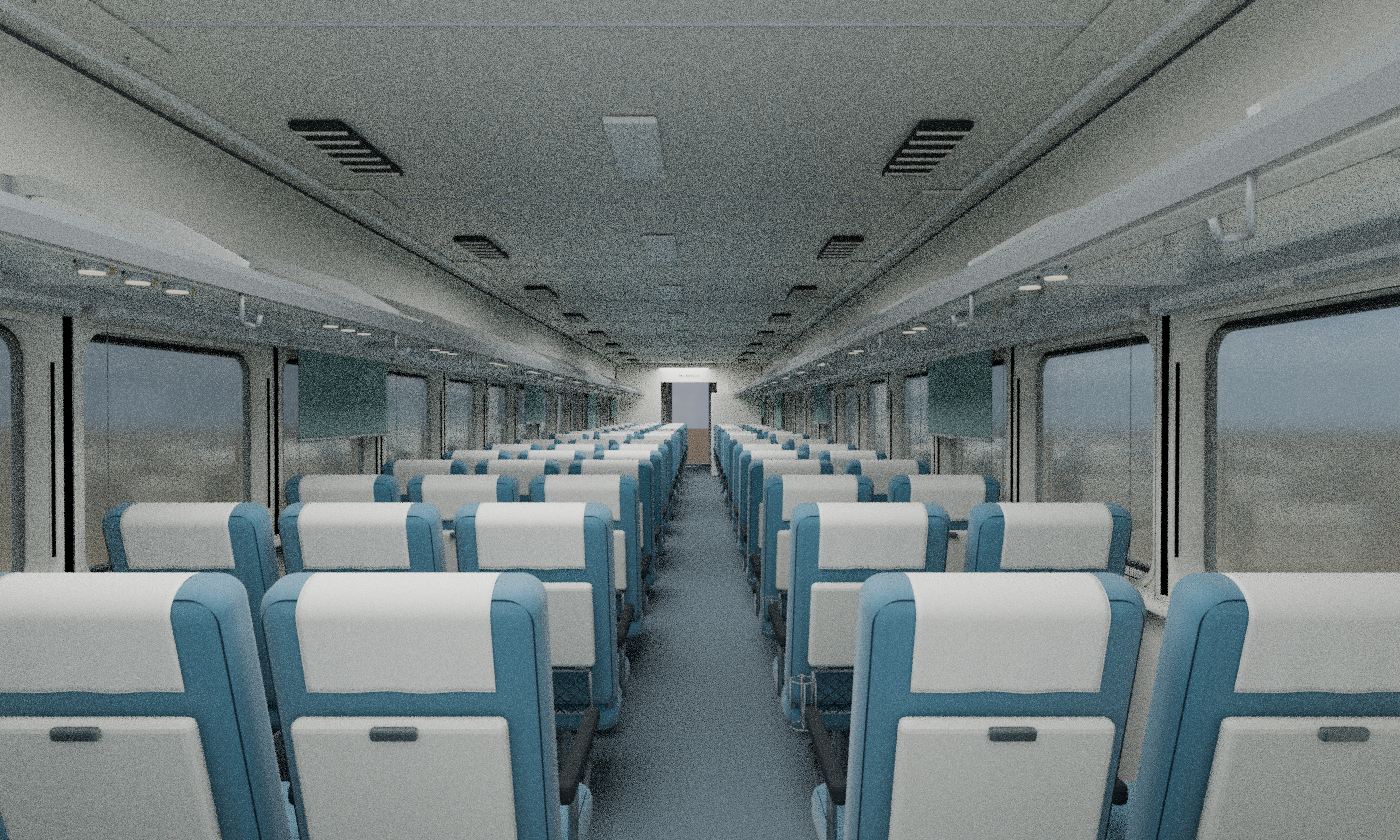
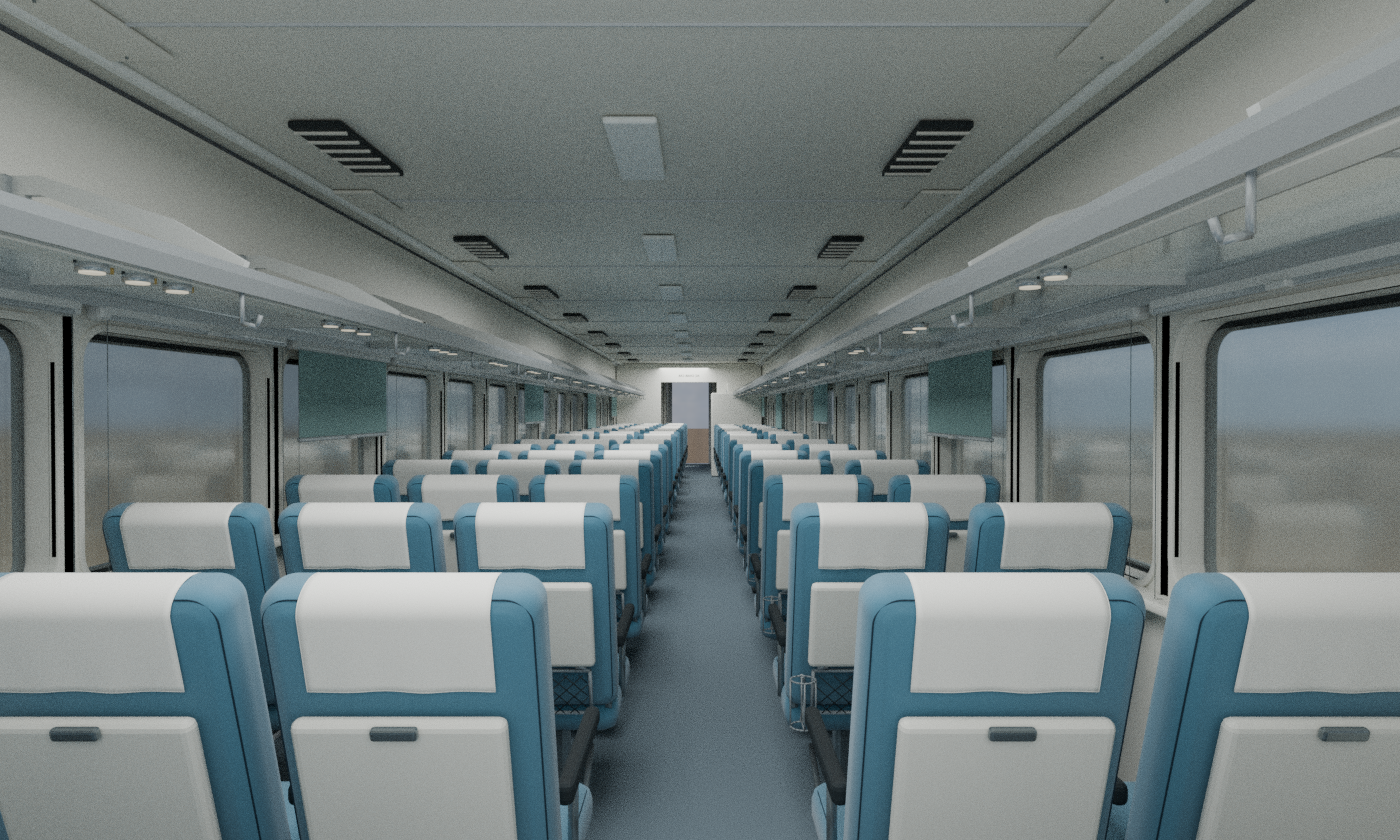
Preserve WIP coach detail source milestone: lhb_checkpoint_006

diff --git a/lhb_detail_v02/docs/iteration_log.md b/lhb_detail_v02/docs/iteration_log.md
@@ -24,3 +24,21 @@ Visual review remains open. The next pass will extend the grey end paint wedge a
 ## Recovered reference and attachment pass, 7 October 2026, 19:50 UTC
 
 Integrated the CAMTECH-informed RMPU, CC furniture and soft cabin work across all seven sources/exports. A fixture audit caught floating 1A step/stile and wall fittings, plus unmounted CC bottle cages; corrected their actual geometry rather than concealing gaps in the camera. Added 1A attachment measurements and corresponding fault injections. GS's deeper crowned cushion retains its 1.840 m top; corrected the independent centre datum to 1.776 m for its 128 mm thickness. All eight current module hashes agree across all seven manifests. Current source and FBX checks pass with the existing explicitly reported font-tessellation warnings. New close proofs and final-resolution rendering remain active work.
+
+## Current-source final 1A interior, 7 October 2026 22:43 UTC
+
+Completed and inspected actual 1400×840 CPU Cycles pixels, using eight independently seeded uniform64-sample scene-linear EXRs (512 total), no denoising, one final AgX display transform. The patched LIGHT / SOCKET legend is now correctly facing into the cabin. Burgundy cushions/piping, curtain gathering/ties, wall nets, reading lamps and bottle holders remain visible with no newly observed attachment or collision defect in this view. Fine no-denoise grain remains; this single camera does not establish complete geometric or runtime correctness. Source hash12dfa0eb remains unchanged. Source/image/sampling/dependency identities are in qa/render_1A_interior.json. Completed duration1368.4seconds.
+
+Recovery renderer identity now includes relocated helper files and actually loaded external texture content. The initial old-filter cache was preserved and excluded from final delivery. Evidence JSON is frozen byte-exact rather than rewriting execution paths inside its hashed fingerprint specification. The optional depot dependency-root check was corrected at a completed-frame boundary; previous helper bytes remain available under scripts/render_provenance for historical evidence.
+
+## Current-source final 1A exterior, 7 October 2026 22:54 UTC
+
+Actual 1400×840 uniform512 exterior completed in596.6seconds and visually inspected. Smooth roof/end transitions, HVAC recesses and fan assemblies, grey paint wedges, eight cabin-side window rhythm, underfloor boxes, bogies and rail contact are visible without a newly observed silhouette or attachment defect. Exterior is appreciably cleaner than interior at equal sample count. Original source remains locked. CC interior starts next; final gallery2/20 completed.
+
+## Current-source final CC interior, 7 October 2026 23:23 UTC
+
+Actual 1400×840 uniform512 interior completed in1739.8seconds and visually inspected by worker and parent. The3+2 chair layout, thin draped headrest linen/hem, refined shoulder profile, seat-back nets and mounted cages, roller blinds, shelves and reading lights are coherent. No new visible collision/attachment issue in this camera. Grain persists in ceiling/shadows without denoising. Root accepted the genuine gallery view without source edits. CC exterior is next, followed by immutable two-pair checkpoint.
+
+## Current-source final CC exterior, 7 October 2026 23:34 UTC
+
+Actual 1400×840 uniform512 exterior completed in630.3seconds and visually inspected. Continuous chair-car window rhythm and seating visible through glazing distinguish CC from cabin coaches; the blue/grey livery, crown, HVAC, door hardware and underframe remain coherent with the locked source. No newly observed silhouette or attachment defect. Four final gallery views are complete (1A and CC interior/exterior). 3A interior starts next.
